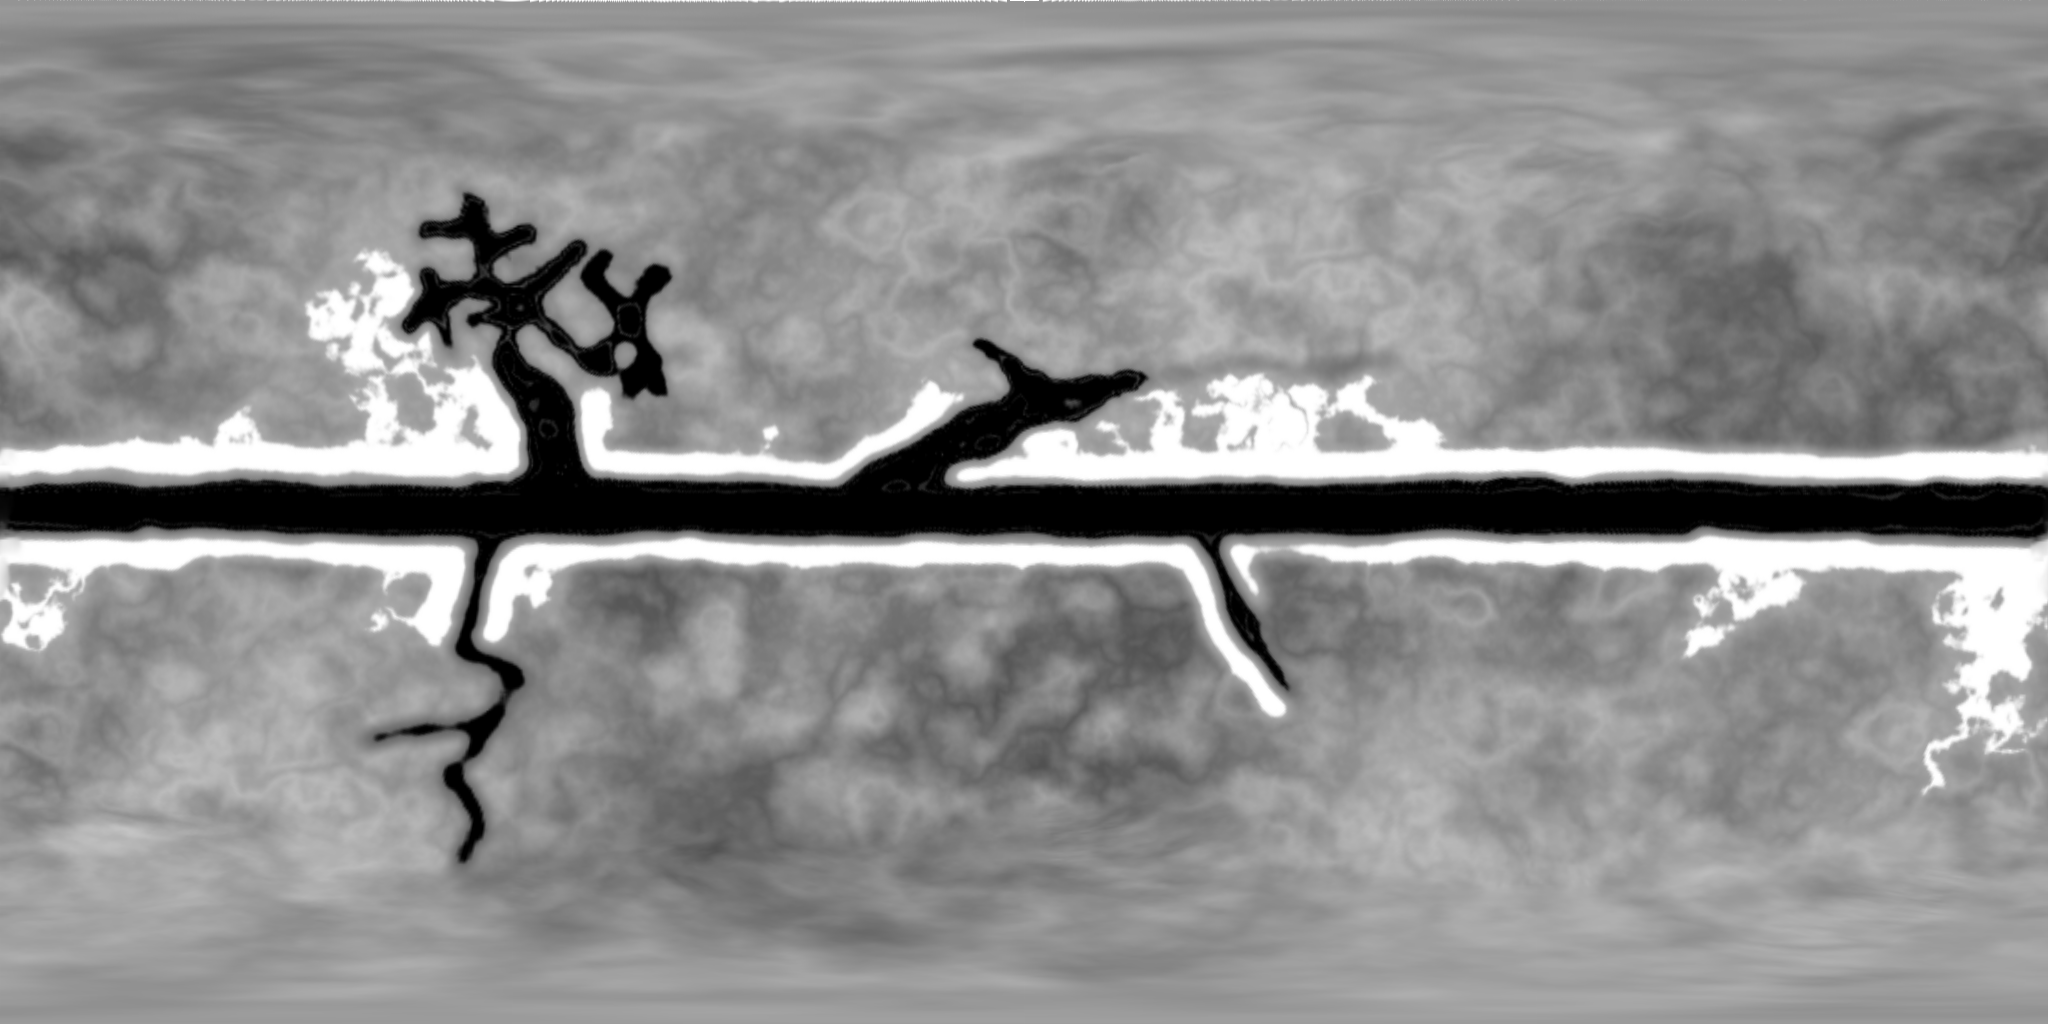
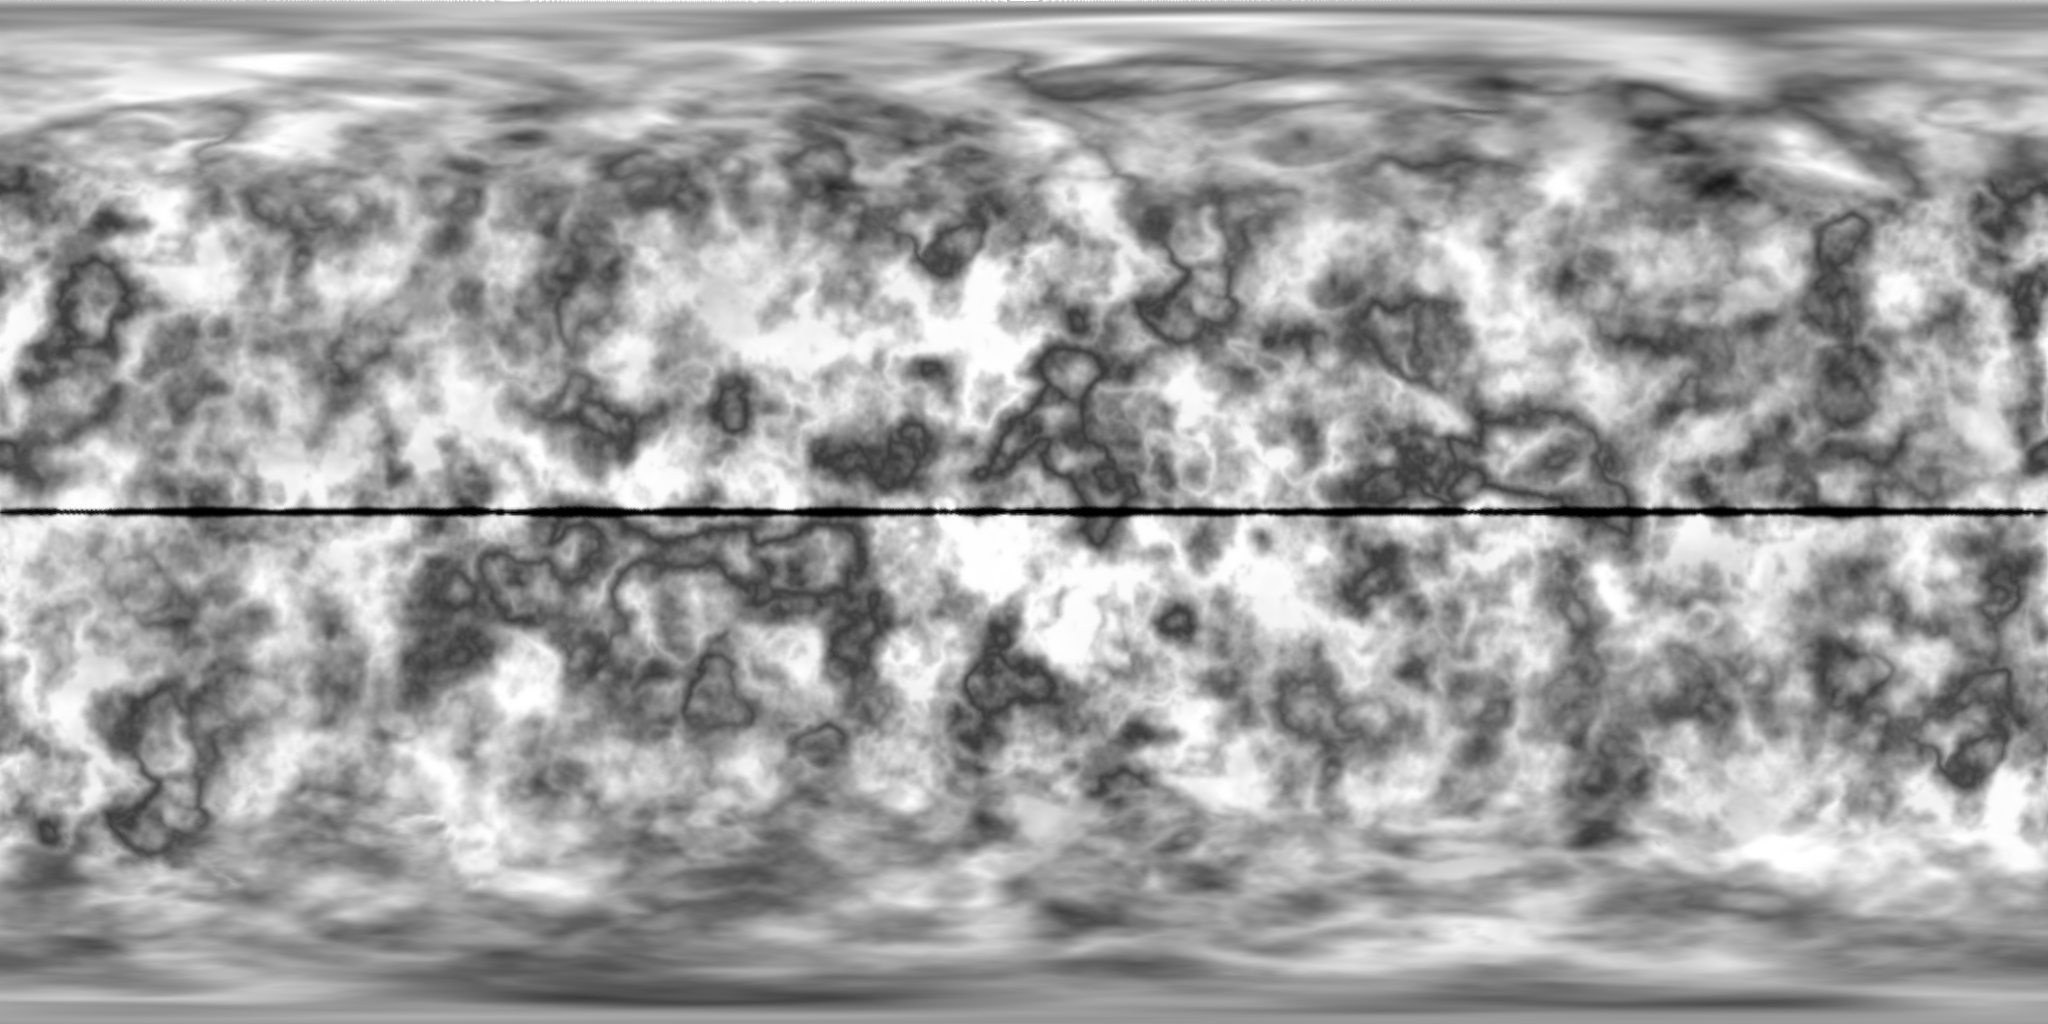
Chasm major overhaul

diff --git a/GameData/CustomPlanetPack/README.md b/GameData/CustomPlanetPack/README.md
@@ -10,6 +10,9 @@ This is our first collaborative planet pack for Kerbal Space Program.
 Unzip the GameData folder to merge with your existing KSP GameData folder.
 
 ## CHANGELOG:
+### v0.0.9
+
+-Chasm gets major overhaul(heightmap, colormap, normalmap, config changes)
 
 ### v0.0.8
 

diff --git a/README.md b/README.md
@@ -10,6 +10,9 @@ This is our first collaborative planet pack for Kerbal Space Program.
 Unzip the GameData folder to merge with your existing KSP GameData folder.
 
 ## CHANGELOG:
+### v0.0.9
+
+-Chasm gets major overhaul(heightmap, colormap, normalmap, config changes)
 
 ### v0.0.8
 
